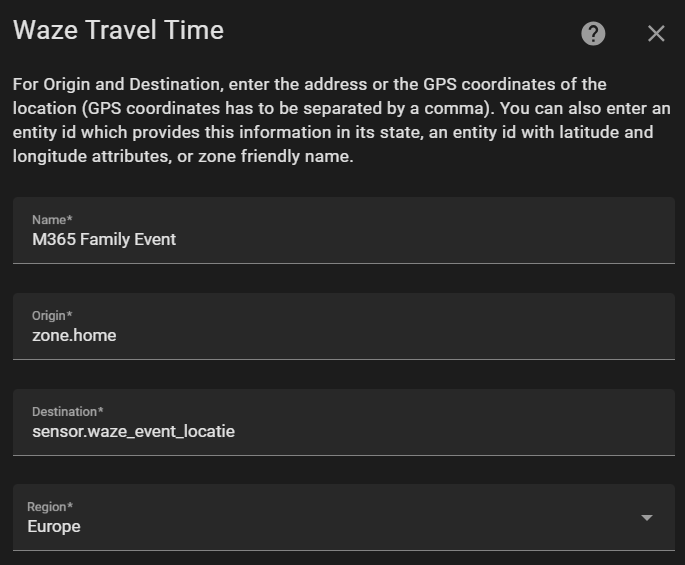
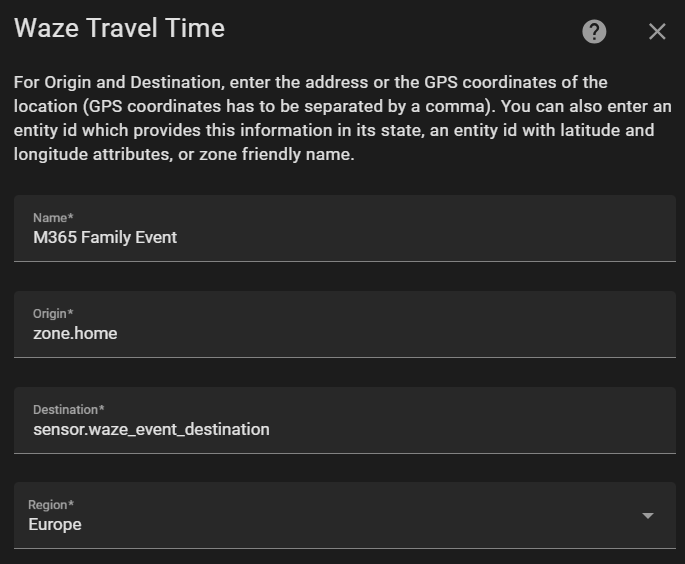
Concept

diff --git a/Packages/car/Readme.md b/Packages/car/Readme.md
@@ -1,0 +1,17 @@
+
+# Charge Reminder
+
+## Table of contents
+
+- [Charge Reminder](#charge-reminder)
+  - [Waze Travel Time Config](#waze-travel-time-config)
+  - [Background](#background)
+
+
+## Waze Travel Time Config
+Install the official [Waze Travel Time](https://www.home-assistant.io/integrations/waze_travel_time) integration and one location. Give it a name you like and use the following variables:
+* Origin : **zone.home**
+* Destination: **sensor.waze_event_destination**
+* Region: **Europe**
+
+![Waze Travel Time Config](/images/waze_travel_time01.png)
